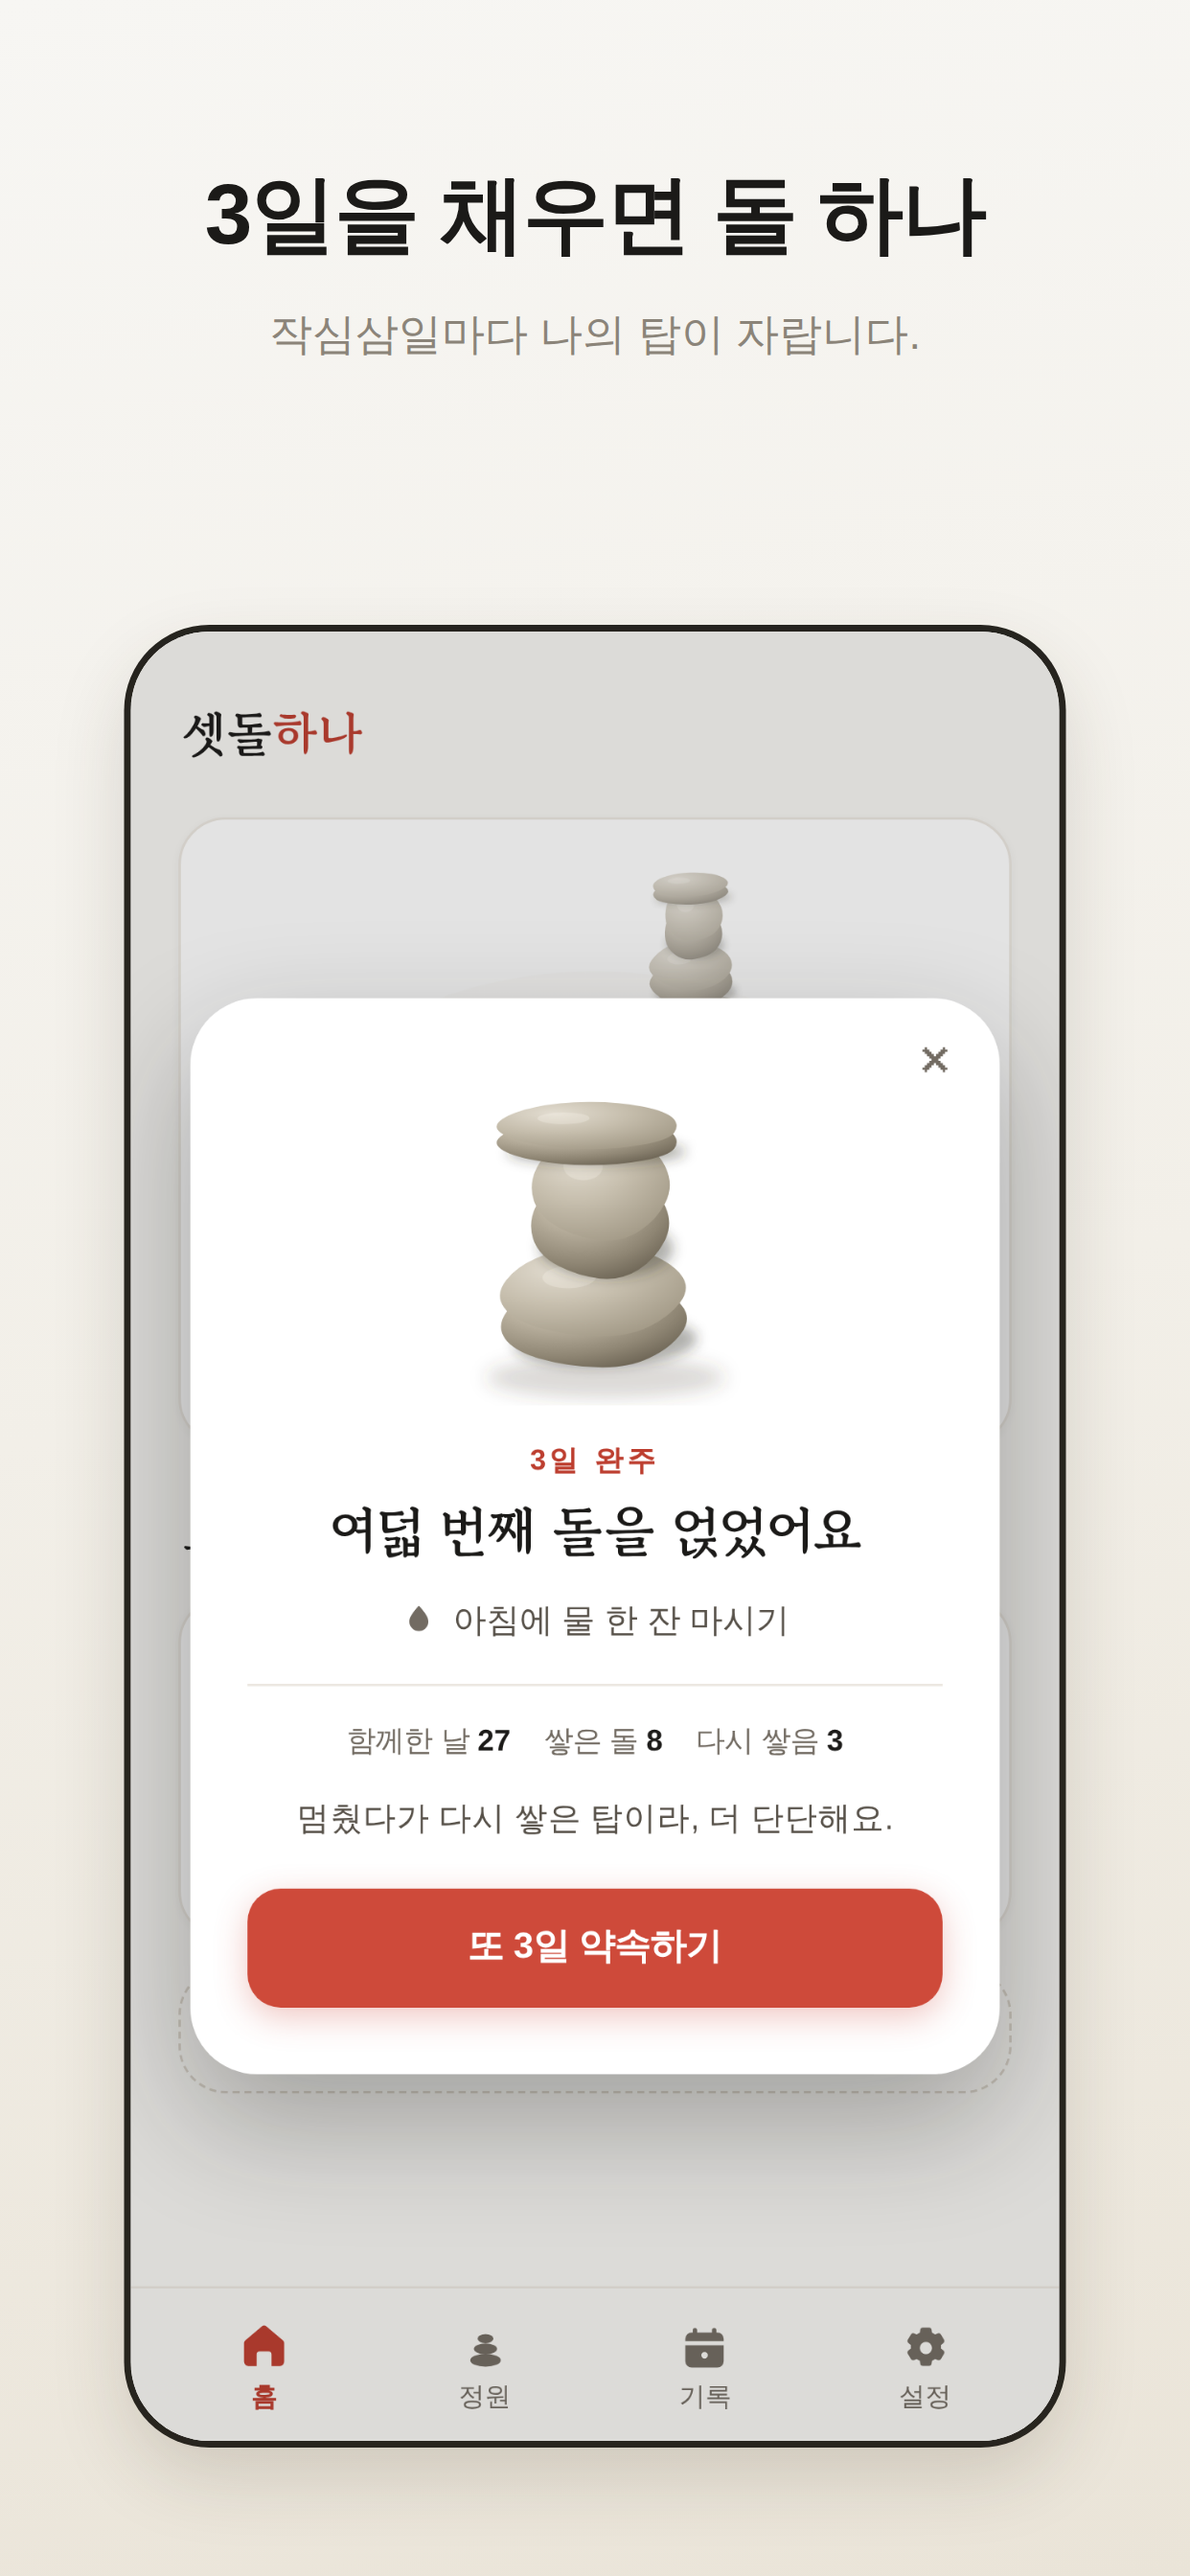
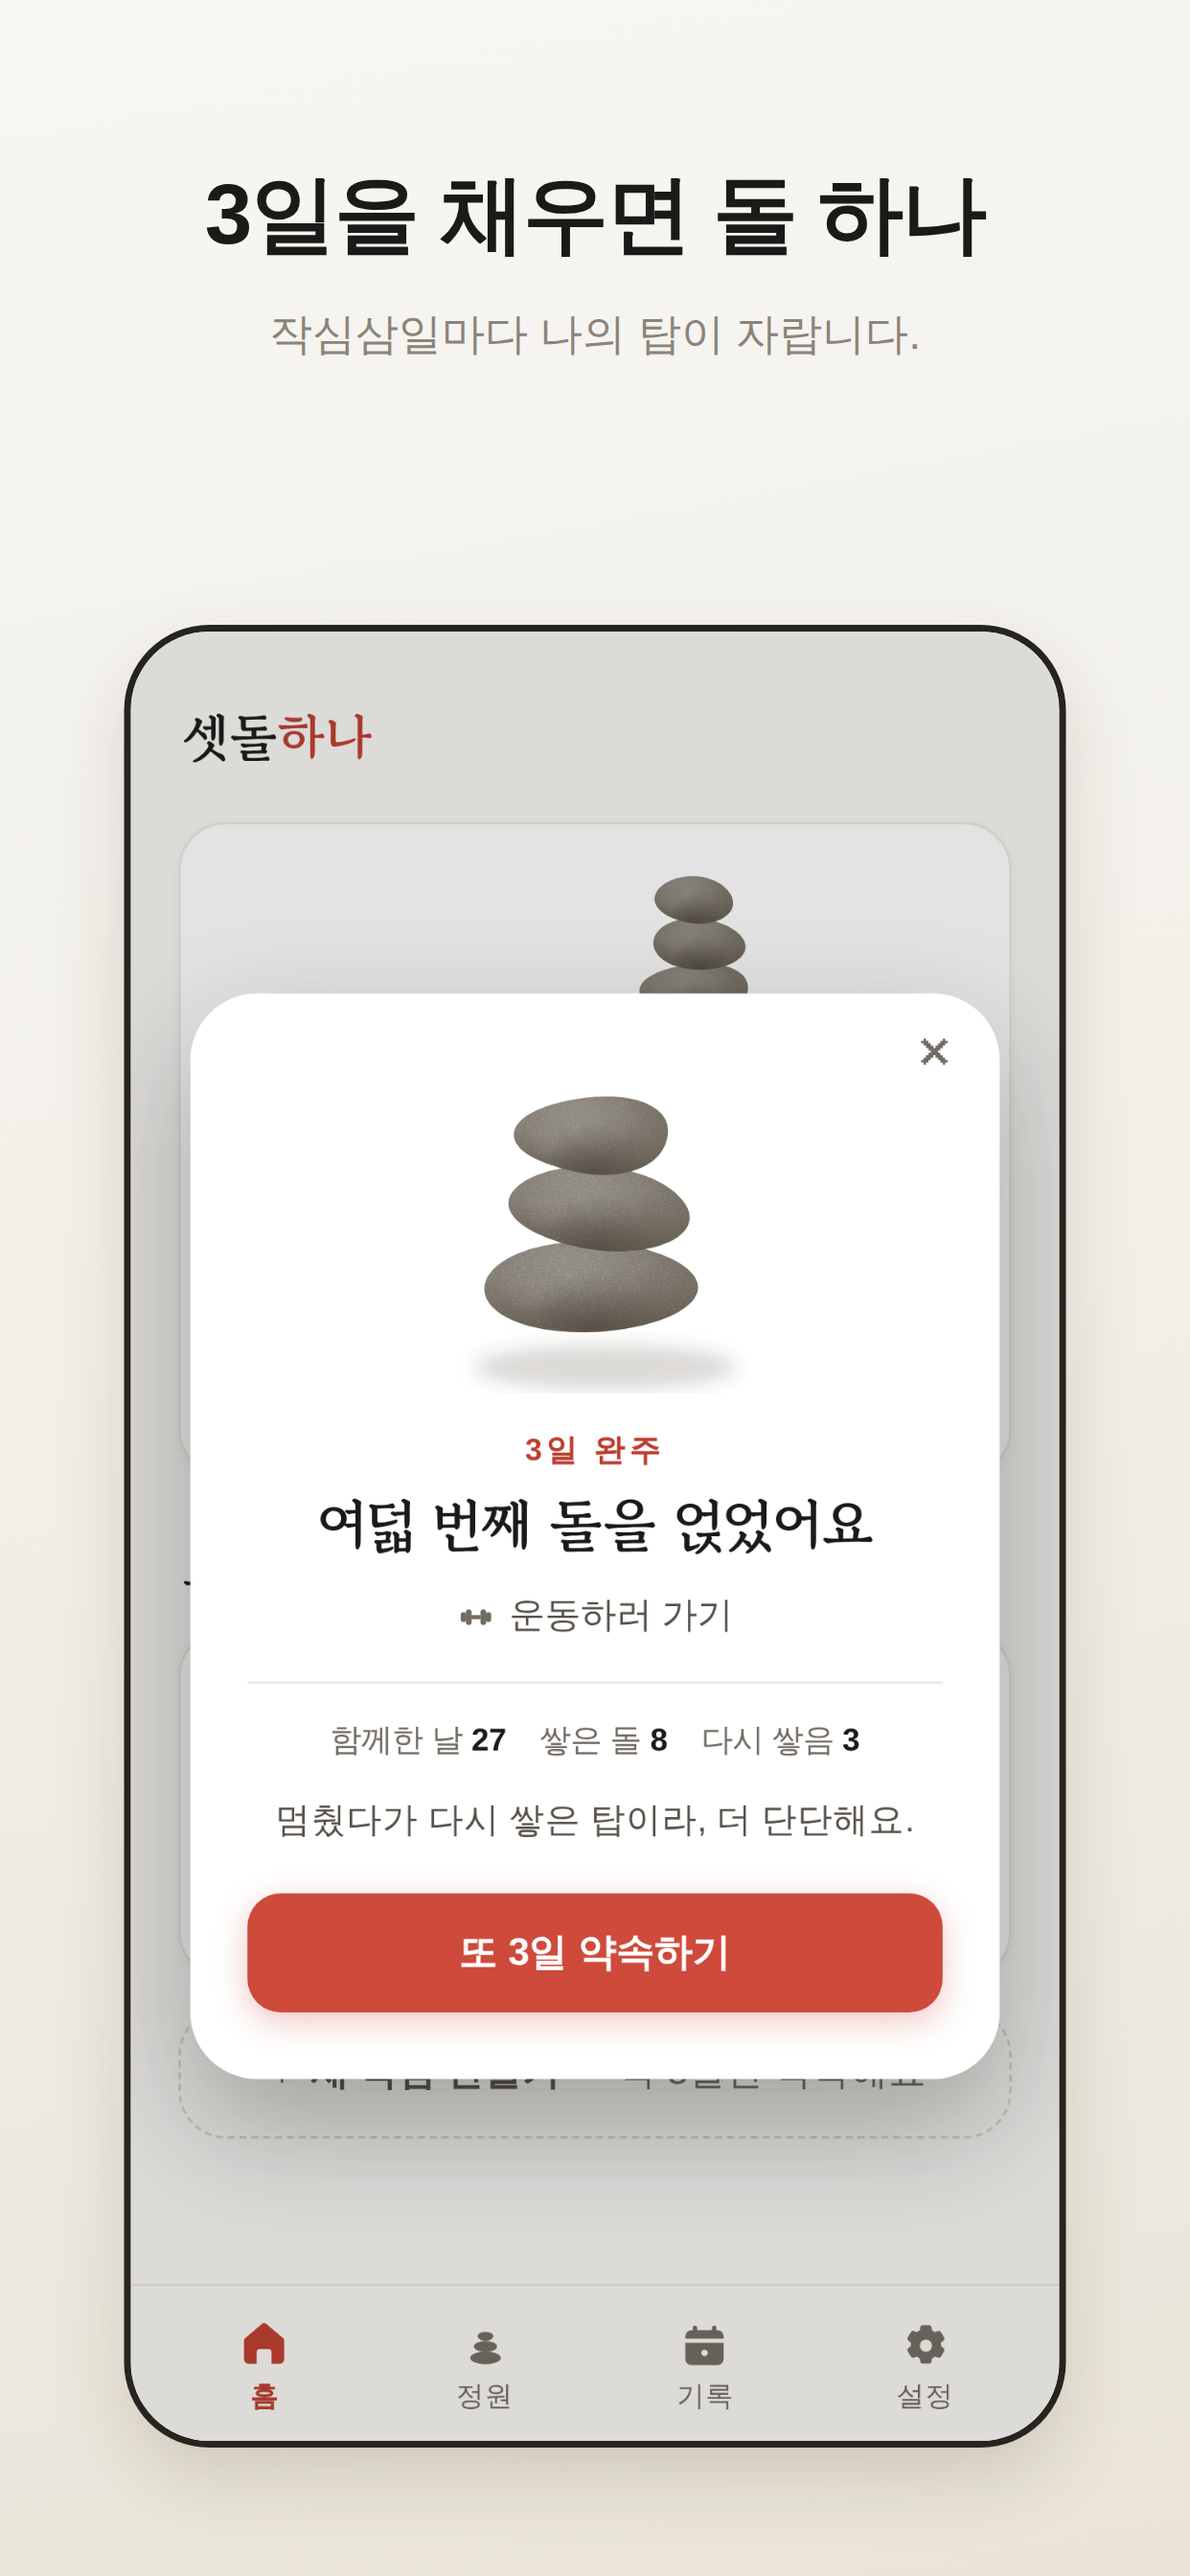
버전 1.0.3(코드 4) · 스토어 이미지를 새 돌로 다시 뽑았다
글자 키움과 조약돌 리디자인을 스토어 업데이트로 올리기 위해 versionCode를
4로 올렸다(3은 이미 정식 출시됨).

스토어 스크린샷 15장과 피처 그래픽을 새 조약돌·큰 글씨로 다시 렌더했다.
그러면서 스크린샷 시드의 예시 작심을 옛것(아침에 물 한 잔·자기 전 스트레칭·
10분 걷기)에서 새 추천 칩과 같은 것(운동하러 가기·밖에서 작업하기·영어
20분·산책하기)으로 바꿨다. '물 한 잔'은 POSITIONING이 반대 사례로 못 박은
것이라, 앱 안에서 걷어낸 예시가 스토어 첫 화면에 남아 있으면 안 됐다.

diff --git a/scripts/make-store-shots.js b/scripts/make-store-shots.js
@@ -62,17 +62,17 @@ function history(days) {
 
 const GOALS = [
   {
-    id: "a", title: "아침에 물 한 잔 마시기", icon: "water",
+    id: "a", title: "운동하러 가기", icon: "run",
     checks: [dstr(-1)], lastCheckDate: dstr(-1),
     totalDays: 26, completedCycles: 7, restarts: 3,
   },
   {
-    id: "b", title: "자기 전 스트레칭", icon: "meditate",
+    id: "b", title: "밖에서 작업하기", icon: "sun",
     checks: [dstr(-2), dstr(-1)], lastCheckDate: dstr(-1),
     totalDays: 14, completedCycles: 4, restarts: 2,
   },
   {
-    id: "c", title: "책 10쪽 읽기", icon: "book",
+    id: "c", title: "책 10쪽 읽기", icon: "pen",
     checks: [dstr(-6)], lastCheckDate: dstr(-6),
     totalDays: 9, completedCycles: 3, restarts: 1,
   },
@@ -139,9 +139,9 @@ const SCENES = [
     setup: (page) => page.evaluate((g) => {
       localStorage.setItem("jaksim3.v1", JSON.stringify({ goals: g }));
     }, GOALS.concat([
-      { id: "d", title: "일기 세 줄 쓰기", icon: "pen", checks: [], lastCheckDate: null,
+      { id: "d", title: "영어 20분", icon: "book", checks: [], lastCheckDate: null,
         totalDays: 6, completedCycles: 2, restarts: 1 },
-      { id: "e", title: "10분 걷기", icon: "run", checks: [dstr(-1)], lastCheckDate: dstr(-1),
+      { id: "e", title: "산책하기", icon: "heart", checks: [dstr(-1)], lastCheckDate: dstr(-1),
         totalDays: 18, completedCycles: 5, restarts: 4 },
     ]).map((g) => ({ ...g, history: history(40) }))),
   },
